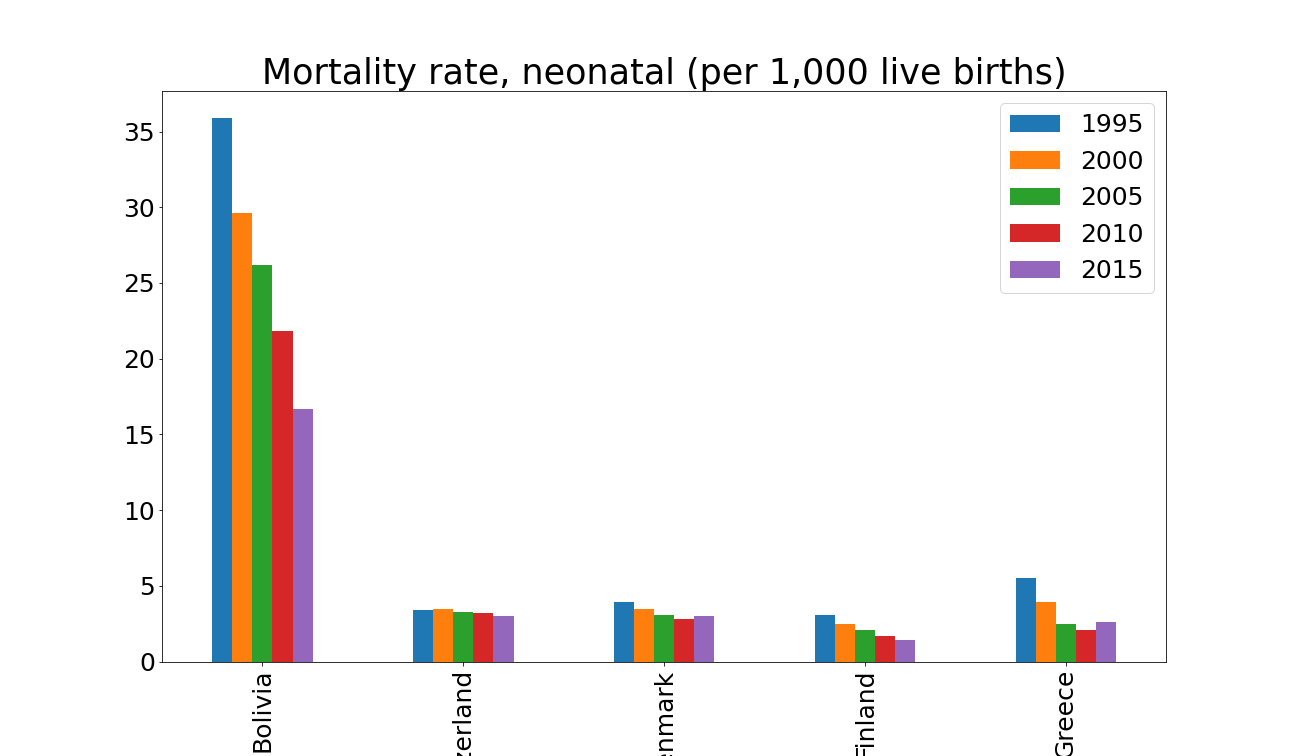
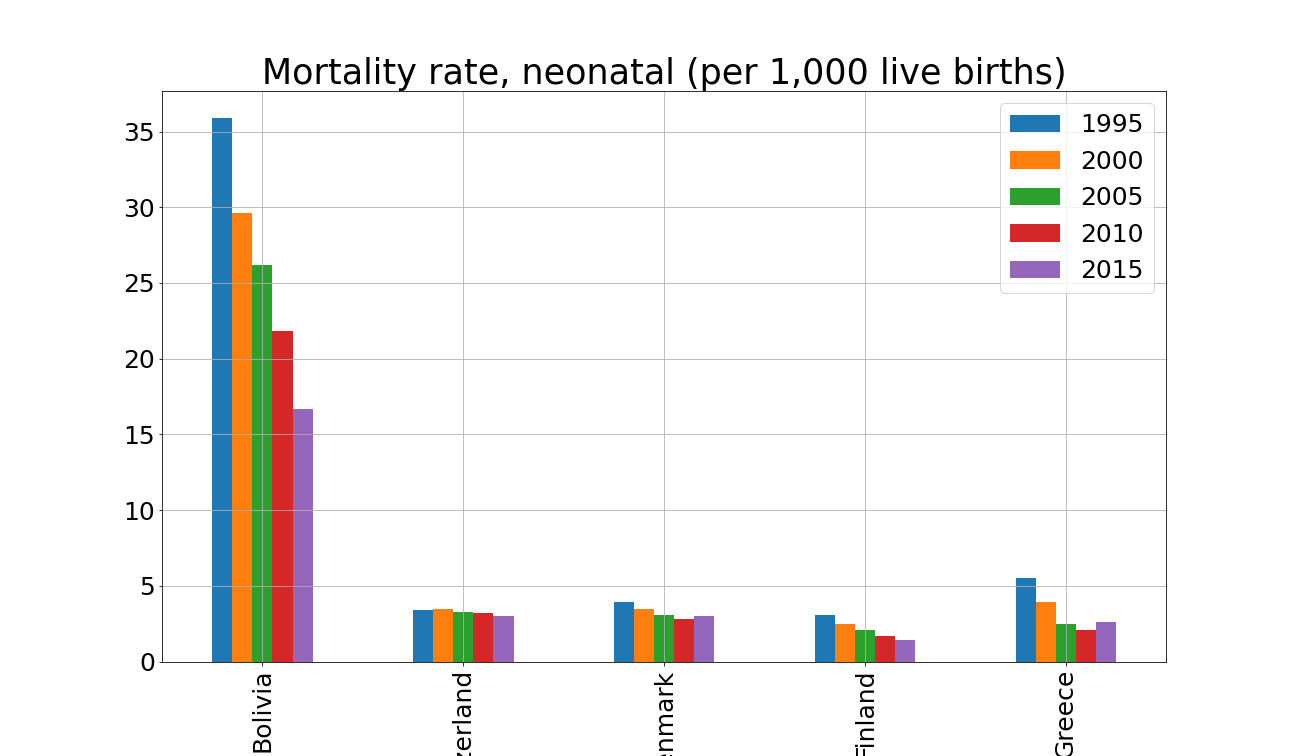
added comments for plots

diff --git a/Statistics and trends/Statistics and trends.py b/Statistics and trends/Statistics and trends.py
@@ -147,6 +147,7 @@ def barPlot(data, countries, years, Title):
               label= years, 
               kind = "bar", title = Title)
     plt.title(Title, size = 35) # setting title for plot and its size
+    plt.grid() # applying grid for the plot to refere the values
     plt.savefig(imageName) # to save the plots
     plt.show() # to display the plots
     
@@ -211,10 +212,11 @@ mpl.rcParams['font.size'] = 25
 # invoking line plot function
 # expected values to pass dataFrame, county list, title
 # =============================================================================
+# line plot for CO2 emissions
 linePlot(data_co2.data_years(),
           county_list, 
           "CO2 emissions (kt)")
-
+# line plot for Energy use
 linePlot(data_energy.data_years(), 
           county_list, 
           "Energy use (kg of oil equivalent per capita)")
@@ -223,11 +225,12 @@ linePlot(data_energy.data_years(),
 # invoking bar plot function
 # expected values to pass dataFrame, county list, years list, title
 # =============================================================================
+# bar plot for Total greenhouse gas emissions
 barPlot(data_greenhouse_gas.data_countries(), 
         county_list, 
         years_list,
         "Total greenhouse gas emissions (kt of CO2 equivalent)")
-
+# bar plot for Mortality rate, neonatal
 barPlot(data_mortality.data_countries(), 
         county_list, 
         years_list,
@@ -237,11 +240,12 @@ barPlot(data_mortality.data_countries(),
 # invoking pie plot function
 # expected values to pass dataFrame, county list, title, year to plot data
 # =============================================================================
+# pie plot for the year 2005
 piePlot(data_co2.data_countries(), 
         county_list,
         "CO2 emissions (kt)", 
         "2005")
-
+# pie plot for the year 2014
 piePlot(data_co2.data_countries(), 
         county_list,
         "CO2 emissions (kt)", 
